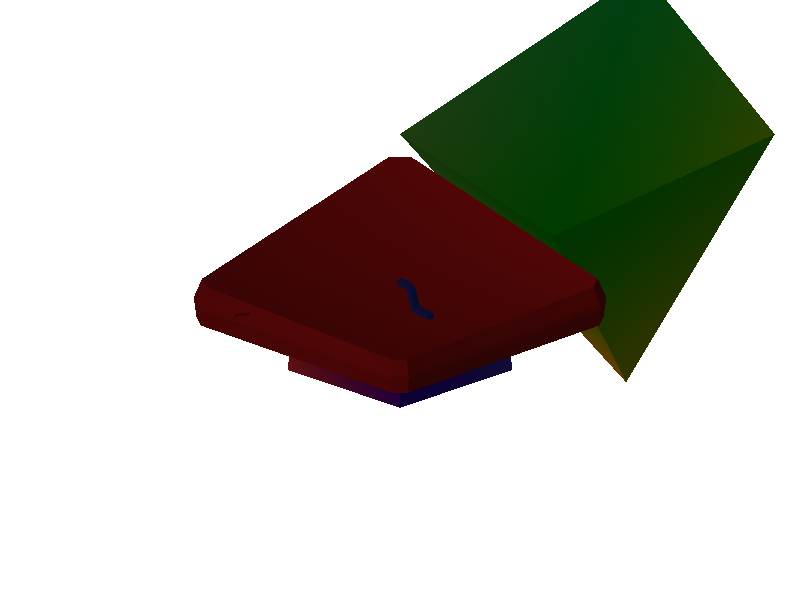
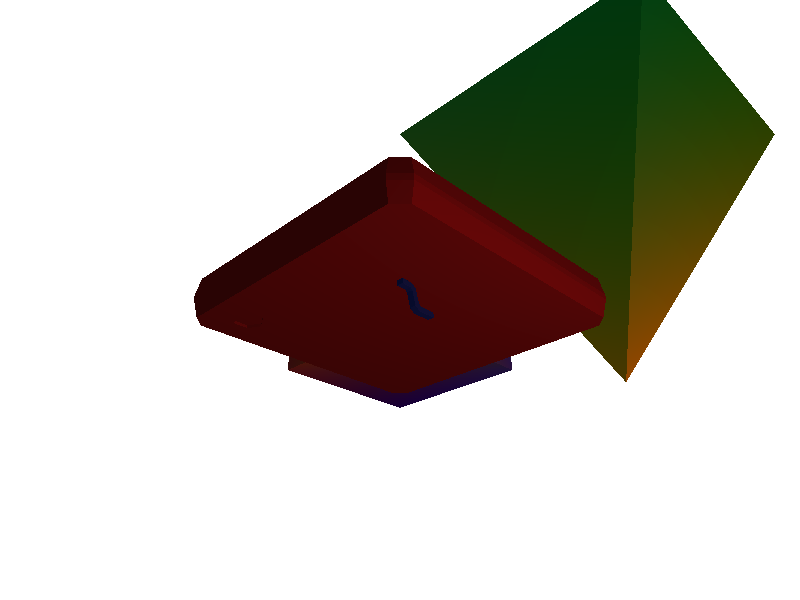
screen-13-cli-1 - WIP 9 - Fix winding order.

diff --git a/screen-13-cli-1/src/main.rs b/screen-13-cli-1/src/main.rs
@@ -147,7 +147,10 @@ fn main() -> Result<(), Box<dyn std::error::Error>> {
     // Create graphics pipeline with shaders
     let pipeline = Arc::new(GraphicPipeline::create(
         &device,
-        GraphicPipelineInfo::default(),
+        GraphicPipelineInfoBuilder::default()
+            // CAD models typically use clockwise winding
+            .front_face(vk::FrontFace::CLOCKWISE)
+            .build(),
         [
             Shader::new_vertex(vert_spirv.as_slice()),
             Shader::new_fragment(frag_spirv.as_slice()),
